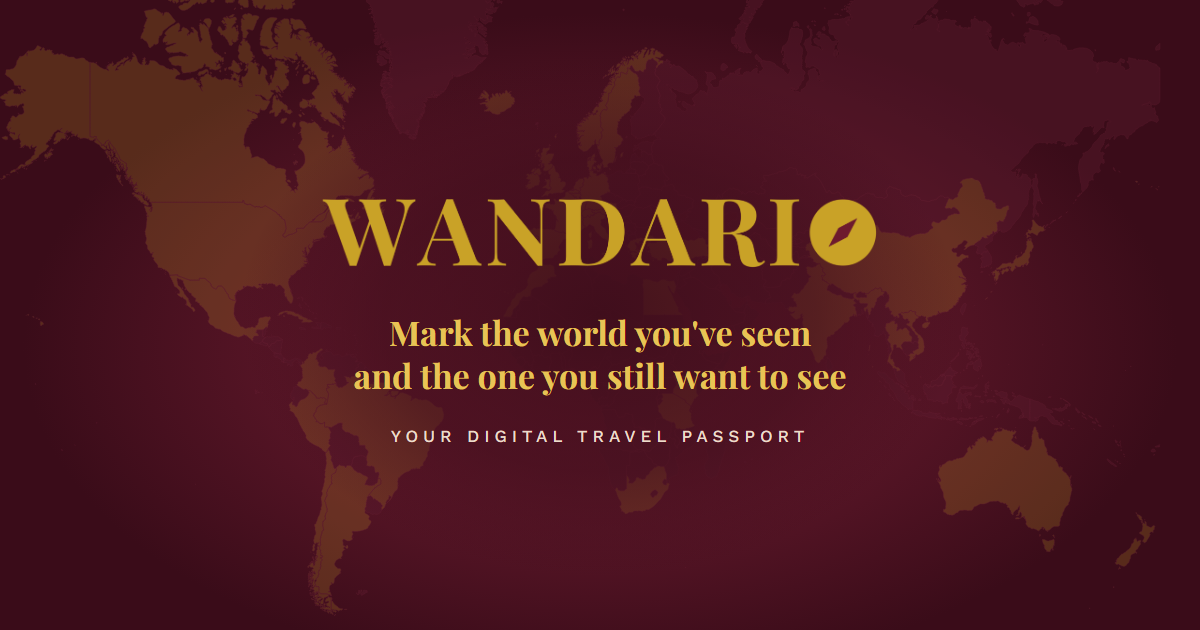
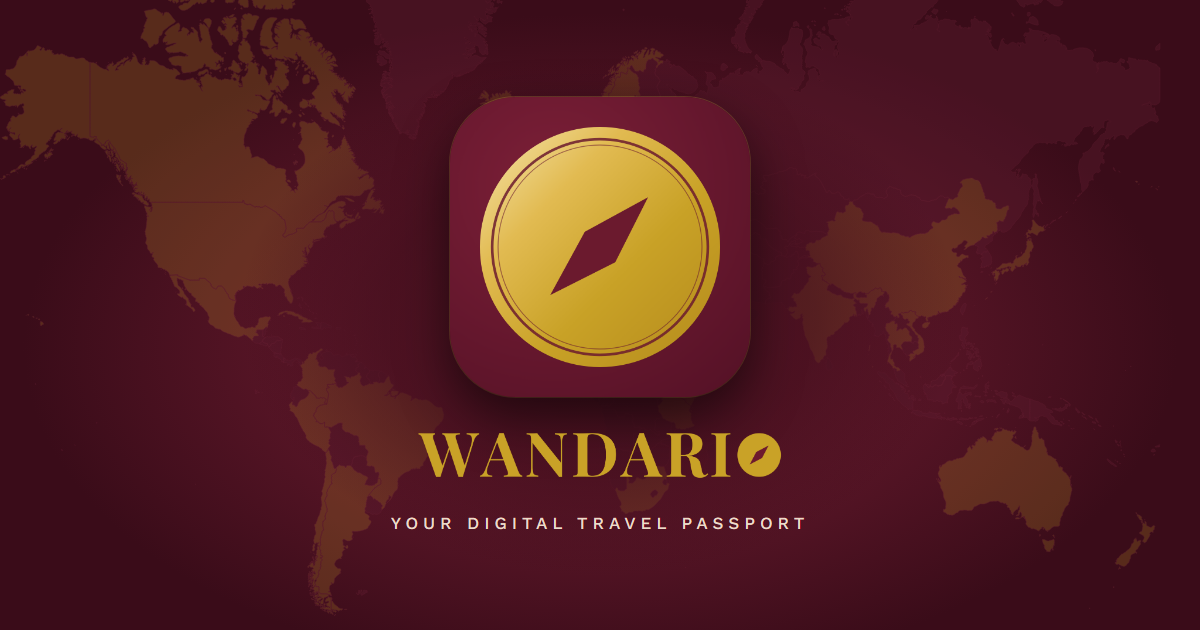
Web: la imagen de previsualización usa el icono de la app, grande y centrado

Changed region(s): [[0.2467, 0.1508, 0.74, 0.754], [0.3083, 0.8143, 0.6783, 0.8444]]

diff --git a/en/index.html b/en/index.html
@@ -19,7 +19,7 @@
 <meta property="og:title" content="Wandario · Your digital travel passport">
 <meta property="og:description" content="Mark the world you've seen and the one you still want to see. Your map, your passport with stamps and achievements, your itineraries and your friends, in a single app.">
 <meta property="og:url" content="https://wandario.es/en/">
-<meta property="og:image" content="https://wandario.es/img/og-image-en.png?v=2">
+<meta property="og:image" content="https://wandario.es/img/og-image-en.png?v=3">
 <meta name="twitter:card" content="summary_large_image">
 <link rel="stylesheet" href="/css/style.css?v=8d21679a">
 <script>document.documentElement.className+=" js"</script>

diff --git a/index.html b/index.html
@@ -19,7 +19,7 @@
 <meta property="og:title" content="Wandario · Tu pasaporte digital de viajes">
 <meta property="og:description" content="Marca el mundo que has conocido y el que te queda por conocer. Tu mapa, tu pasaporte con sellos y logros, tus itinerarios y tus amigos, en una sola app.">
 <meta property="og:url" content="https://wandario.es/">
-<meta property="og:image" content="https://wandario.es/img/og-image.png?v=2">
+<meta property="og:image" content="https://wandario.es/img/og-image.png?v=3">
 <meta name="twitter:card" content="summary_large_image">
 <link rel="stylesheet" href="/css/style.css?v=8d21679a">
 <script>document.documentElement.className+=" js"</script>

diff --git a/en/privacy/index.html b/en/privacy/index.html
@@ -19,7 +19,7 @@
 <meta property="og:title" content="Privacy policy · Wandario">
 <meta property="og:description" content="What data Wandario collects, what it uses it for and how you can exercise your rights.">
 <meta property="og:url" content="https://wandario.es/en/privacy/">
-<meta property="og:image" content="https://wandario.es/img/og-image-en.png?v=2">
+<meta property="og:image" content="https://wandario.es/img/og-image-en.png?v=3">
 <meta name="twitter:card" content="summary_large_image">
 <link rel="stylesheet" href="/css/style.css?v=8d21679a">
 </head>

diff --git a/privacidad/index.html b/privacidad/index.html
@@ -19,7 +19,7 @@
 <meta property="og:title" content="Política de privacidad · Wandario">
 <meta property="og:description" content="Qué datos recoge Wandario, para qué los usa y cómo puedes ejercer tus derechos.">
 <meta property="og:url" content="https://wandario.es/privacidad/">
-<meta property="og:image" content="https://wandario.es/img/og-image.png?v=2">
+<meta property="og:image" content="https://wandario.es/img/og-image.png?v=3">
 <meta name="twitter:card" content="summary_large_image">
 <link rel="stylesheet" href="/css/style.css?v=8d21679a">
 </head>

diff --git a/en/support/index.html b/en/support/index.html
@@ -19,7 +19,7 @@
 <meta property="og:title" content="Support · Wandario">
 <meta property="og:description" content="Help with Wandario: frequently asked questions and contact.">
 <meta property="og:url" content="https://wandario.es/en/support/">
-<meta property="og:image" content="https://wandario.es/img/og-image-en.png?v=2">
+<meta property="og:image" content="https://wandario.es/img/og-image-en.png?v=3">
 <meta name="twitter:card" content="summary_large_image">
 <link rel="stylesheet" href="/css/style.css?v=8d21679a">
 </head>

diff --git a/soporte/index.html b/soporte/index.html
@@ -19,7 +19,7 @@
 <meta property="og:title" content="Soporte · Wandario">
 <meta property="og:description" content="Ayuda con Wandario: preguntas frecuentes y contacto.">
 <meta property="og:url" content="https://wandario.es/soporte/">
-<meta property="og:image" content="https://wandario.es/img/og-image.png?v=2">
+<meta property="og:image" content="https://wandario.es/img/og-image.png?v=3">
 <meta name="twitter:card" content="summary_large_image">
 <link rel="stylesheet" href="/css/style.css?v=8d21679a">
 </head>

diff --git a/terminos/index.html b/terminos/index.html
@@ -19,7 +19,7 @@
 <meta property="og:title" content="Términos y condiciones · Wandario">
 <meta property="og:description" content="Las condiciones de uso de Wandario.">
 <meta property="og:url" content="https://wandario.es/terminos/">
-<meta property="og:image" content="https://wandario.es/img/og-image.png?v=2">
+<meta property="og:image" content="https://wandario.es/img/og-image.png?v=3">
 <meta name="twitter:card" content="summary_large_image">
 <link rel="stylesheet" href="/css/style.css?v=8d21679a">
 </head>

diff --git a/en/terms/index.html b/en/terms/index.html
@@ -19,7 +19,7 @@
 <meta property="og:title" content="Terms and conditions · Wandario">
 <meta property="og:description" content="The terms of use of Wandario.">
 <meta property="og:url" content="https://wandario.es/en/terms/">
-<meta property="og:image" content="https://wandario.es/img/og-image-en.png?v=2">
+<meta property="og:image" content="https://wandario.es/img/og-image-en.png?v=3">
 <meta name="twitter:card" content="summary_large_image">
 <link rel="stylesheet" href="/css/style.css?v=8d21679a">
 </head>

diff --git a/404.html b/404.html
@@ -19,7 +19,7 @@
 <meta property="og:title" content="Página no encontrada · Wandario">
 <meta property="og:description" content="Esta página no existe.">
 <meta property="og:url" content="https://wandario.es/">
-<meta property="og:image" content="https://wandario.es/img/og-image.png?v=2">
+<meta property="og:image" content="https://wandario.es/img/og-image.png?v=3">
 <meta name="twitter:card" content="summary_large_image">
 <link rel="stylesheet" href="/css/style.css?v=8d21679a">
 </head>
